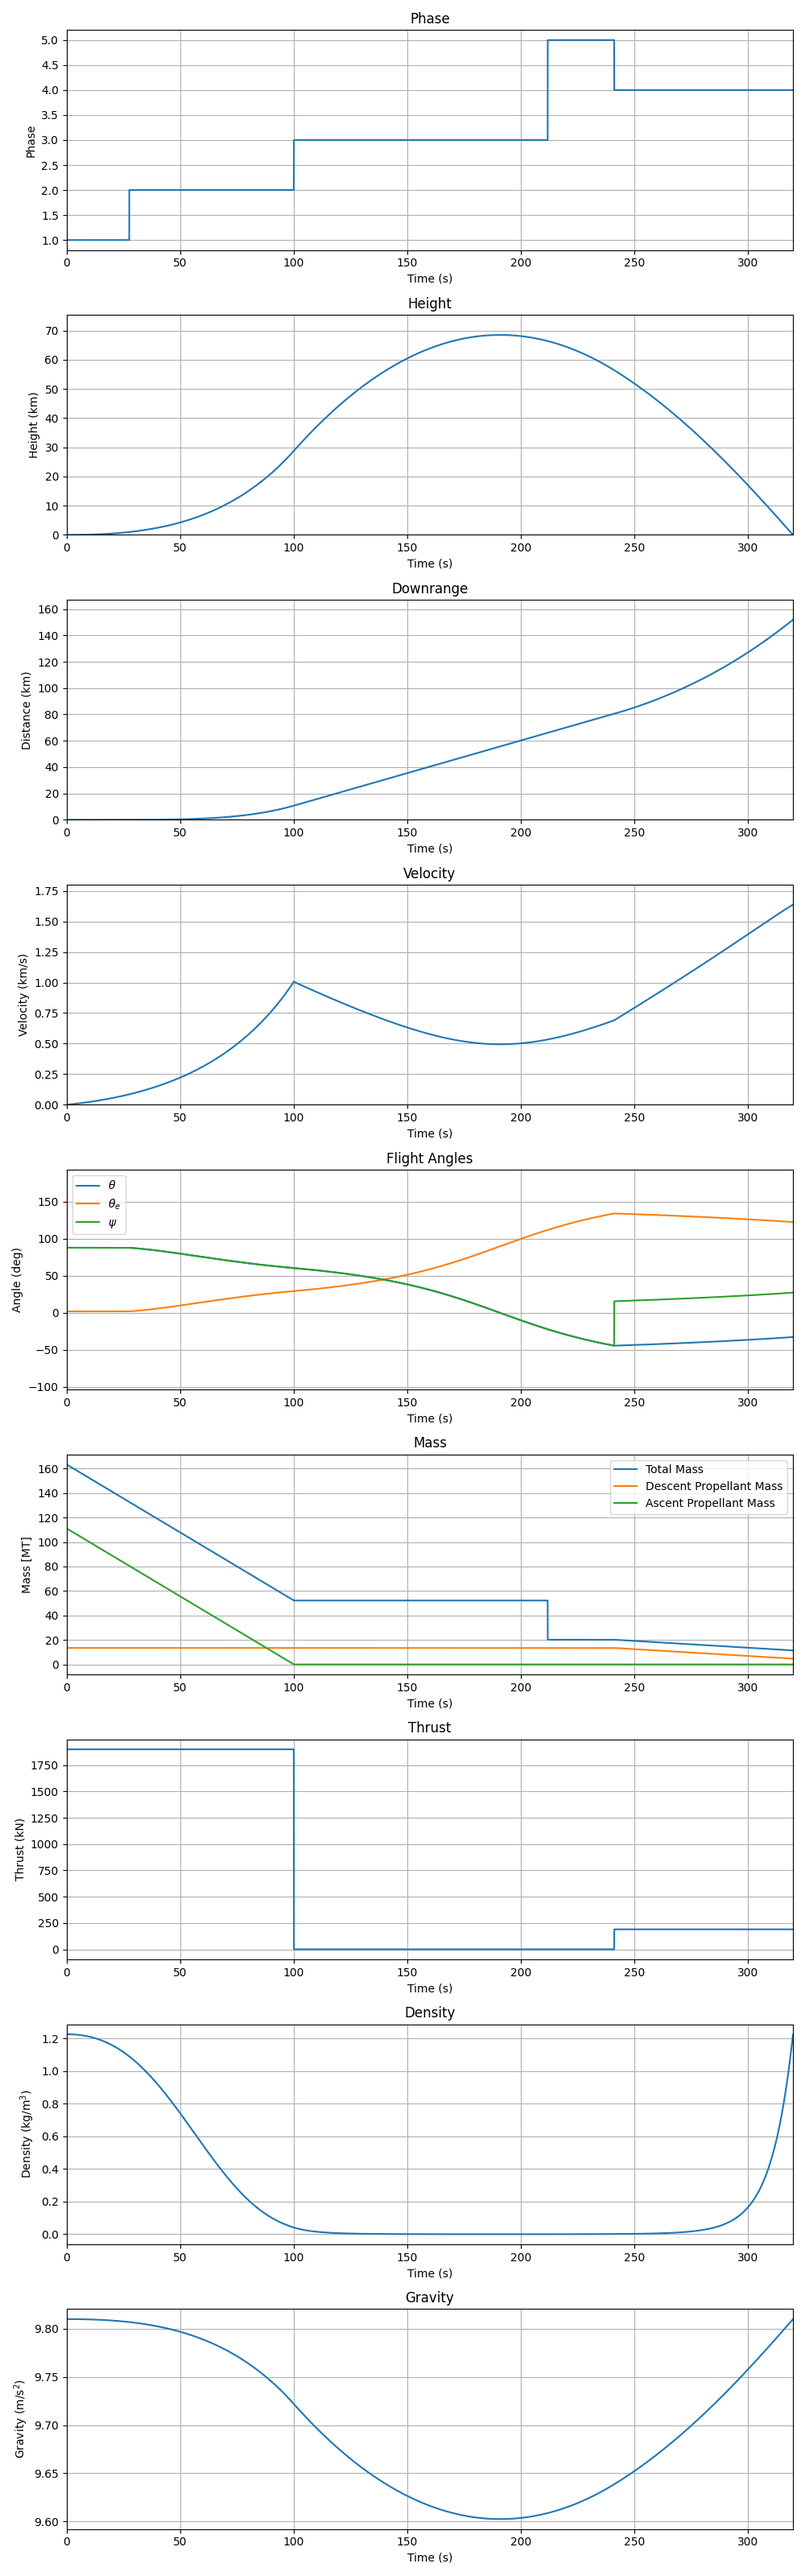
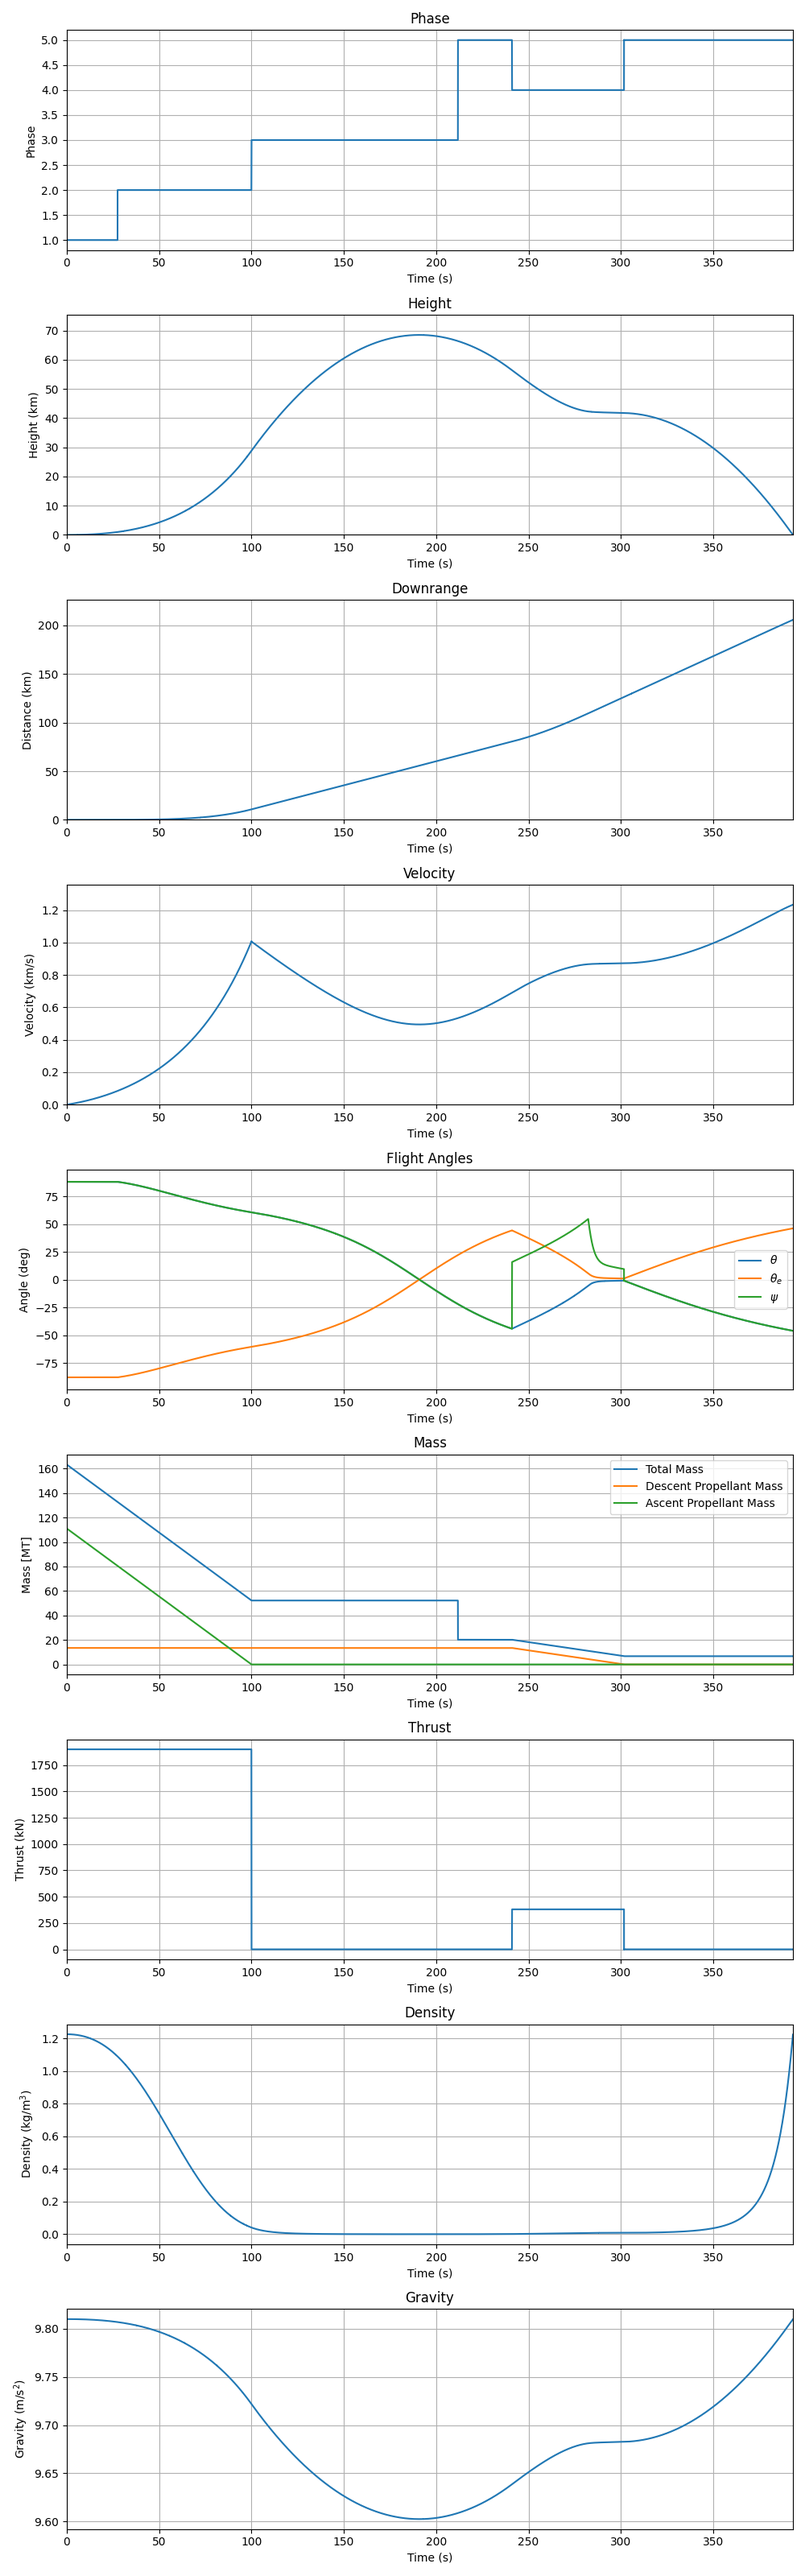
Everything set for a single run of downrange style

diff --git a/src/trajectory.py b/src/trajectory.py
@@ -127,11 +127,13 @@ def ode_equations(t,y):
         # Thrust and mass
         util_values['mp_descent'] = util_values['mp_descent'] - (mdot_descent *  util_values['dt'])
         m = m_init - (mdot_ascent * tb_ascent) - (mdot_descent * util_values['descent_t']) - mpl
-        F = thrust_descent
+        F_v = 0
+        F_theta = thrust_descent
+        F = F_theta
 
         # EOMS
-        v_dot = (F*np.cos(util_values['psi']-theta))/m - (Cd*rho*v**2*Ap)/(2*m) - g*np.sin(theta)
-        theta_dot = ((F*np.sin(util_values['psi']-theta))/(m*v) + (Cl*rho*v*Ap)/(2*m) - (g*np.cos(theta))/v)
+        v_dot = (F_v*np.cos(util_values['psi']-theta))/m - (Cd*rho*v**2*Ap)/(2*m) - g*np.sin(theta)
+        theta_dot = ((F_theta*np.sin(util_values['psi']-theta))/(m*v) + (Cl*rho*v*Ap)/(2*m) - (g*np.cos(theta))/v)
         h_dot = v*np.sin(theta)
         x_dot = v*np.cos(theta)
 
@@ -216,7 +218,7 @@ if __name__ == '__main__':
     h_turn = 1000
 
     # Descent Burn
-    descent_ratio = 10
+    descent_ratio = 5
     mdot_descent = mdot_ascent/descent_ratio
     thrust_descent = thrust_ascent/descent_ratio
     
@@ -230,10 +232,10 @@ if __name__ == '__main__':
     # Controller
     #------------------------------------------------
     # PID
-    Kp = 1
+    Kp = 10
     Ki = 0
     Kd = 0
-    desired_flight_path_angle = 90
+    desired_flight_path_angle = 0
     bounds = 60
     pidController = Controller(Kp, Ki, Kd, desired_flight_path_angle, bounds)
 
